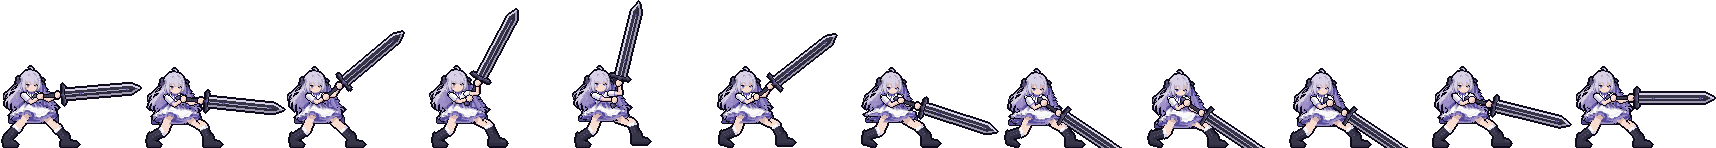
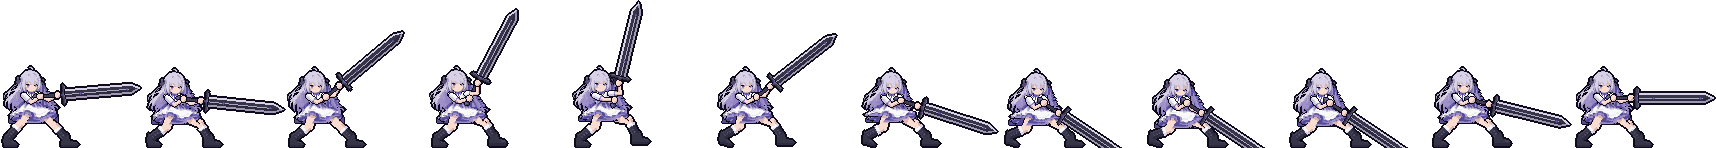
Step 19: knees bend at a natural pivot above the boot
Claude-Session: https://claude.ai/code/session_01HxjqkUSQep4dPnHwHokXph

diff --git a/swingkit/rig.py b/swingkit/rig.py
@@ -124,6 +124,15 @@ LEG_NEUTRAL = dict(
     right=dict(hip=(42.0, 51.0), knee=(53.1, 62.0), ankle=(60.9, 71.0), side=+1,
                r_thigh=4.1, r_shaft=3.7, toe_reach=13.0, heel_flare=0.0),
 )
+# Step 19: the knee pivot sits higher than the boot top (a natural knee), so the shin shows skin
+# between the knee and the sock cuff. KNEE_RAISE moves each knee up along its thigh; the boot top
+# stays where the fitted knee was.
+KNEE_RAISE = dict(left=4.5, right=4.0)
+for _k, _v in LEG_NEUTRAL.items():
+    _h, _kn = np.array(_v['hip']), np.array(_v['knee'])
+    _v['boot_top'] = tuple(_kn)
+    _v['knee'] = tuple(_kn + (_h - _kn) / np.linalg.norm(_h - _kn) * KNEE_RAISE[_k])
+    _v['shin_skin'] = KNEE_RAISE[_k]
 LEG_LEN = {k: (float(np.hypot(*np.subtract(v['knee'], v['hip']))),
                float(np.hypot(*np.subtract(v['ankle'], v['knee'])))) for k, v in LEG_NEUTRAL.items()}
 SOCK_LEN = 3.2
@@ -191,12 +200,16 @@ def draw_leg(cv, name, hip=None, ankle=None, heel_up=False):
     def f(p):
         # shin / sock measured along the shin axis: a clean band, no rounded cap at the knee
         q = p - knee; u = float(q @ sh_dir); s = float(q @ nb)
-        if 0.0 <= u <= L2 and abs(s) <= rb + (0.6 if u < SOCK_LEN else 0):
-            if u < SOCK_LEN:                          # small frilled cuff at the knee
-                if u > SOCK_LEN - 1.0:
+        skin = v['shin_skin']
+        if 0.0 <= u <= L2 and abs(s) <= rb + (0.6 if skin <= u < skin + SOCK_LEN else 0):
+            if u < skin:                              # bare shin between the knee and the sock
+                return SKS if s > rb * 0.5 else SK
+            u2 = u - skin
+            if u2 < SOCK_LEN:                         # small frilled cuff at the boot top
+                if u2 > SOCK_LEN - 1.0:
                     return 16 if int(round(p[0] + p[1])) % 2 else 18
                 return 16 if s > 1.8 else 19
-            if abs(s) < 1.1 and int(np.floor(u)) % 3 == 0: return 4   # laces
+            if abs(s) < 1.1 and int(np.floor(u2)) % 3 == 0: return 4   # laces
             return 1 if s > 1.2 else (3 if s < -2.6 else 2)
         d, t, off = seg(p, hip, knee)
         if d <= rt:

diff --git a/Current_Work.md b/Current_Work.md
@@ -238,19 +238,20 @@ frames or fewer.
 - Signed off: Claude, 2026-09-28
 
 ### Step 19. Knees bend at a natural pivot
-- [ ] User feedback (2026-09-28): the knee joint is too low; the legs bend just above the boot.
-- [ ] Move the knee pivot up the leg to a natural height. The shin now shows skin between the knee
+- [x] User feedback (2026-09-28): the knee joint is too low; the legs bend just above the boot.
+- [x] Move the knee pivot up the leg to a natural height. The shin now shows skin between the knee
       and the sock cuff before the boot starts; the boot top stays where it was.
 - Acceptance: bends read at the knee, not at the boot top; leg lengths constant; planted feet and
   all other checks pass.
-- Status: IN PROGRESS (Claude, 2026-09-28)
-- Result:
-- Signed off:
+- Status: DONE
+- Result: Knee pivots moved up each thigh (`rig.KNEE_RAISE`: rear 4.5 px, front 4 px) to a natural knee height. The shin now shows bare skin from the knee down to the sock cuff, and the boot top stays where it was, so bends read at the knee instead of just above the boot. Thigh and shin lengths are re-derived once and stay fixed; all 10 checks and 9 tests pass.
+- Signed off: Claude, 2026-09-28
 
 ## Open questions
 - None.
 
 ## Log
+- 2026-09-28: Step 19 (knee pivot) done. Knee height is `rig.KNEE_RAISE`. (Claude)
 - 2026-09-28: Step 18 (elbows) done. Arm segment lengths in `anim.ARM_LEN`; hands must stay reachable with the lead elbow at or below shoulder height. (Claude)
 - 2026-09-28: Step 17 (rear hand on the pommel end) done. Hand positions live in `anim.REAR_HAND` in final coordinates; keep the buried-blade frames on one shared grip. (Claude)
 - 2026-09-28: Step 16 (lead foot toes forward) done. Foot shape per leg lives in `rig.LEG_NEUTRAL`. (Claude)
